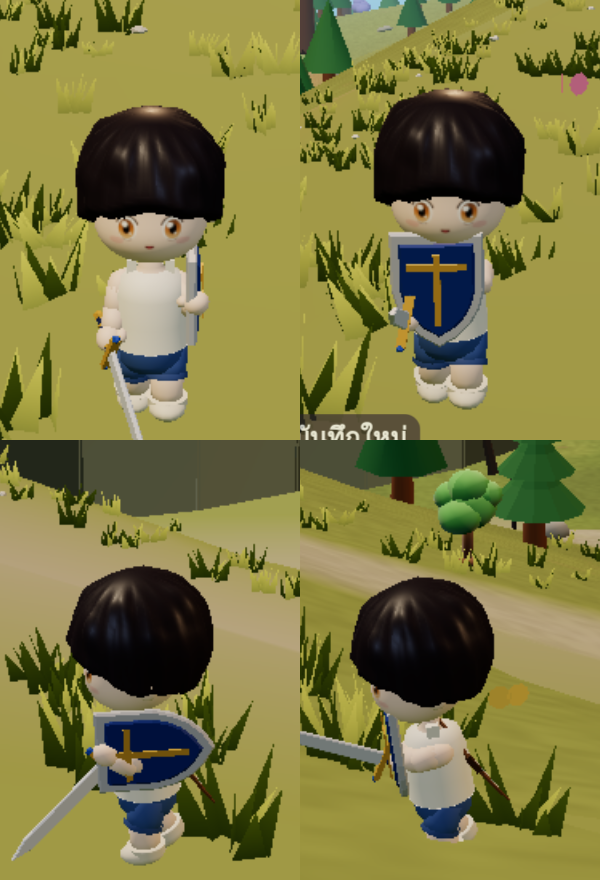
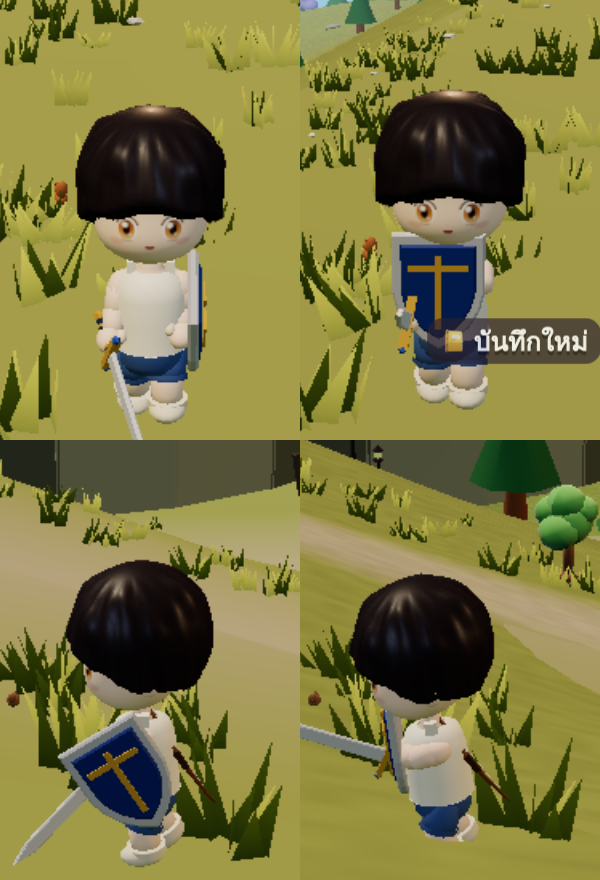
release(newgame): v4.23 holding a shield: elbow bent, shield on the forearm
Claude-Session: https://claude.ai/code/session_01GPWeNez232vT9ersFNk7wt

diff --git a/newgame/src/main.js b/newgame/src/main.js
@@ -378,12 +378,12 @@ const _gQ = new THREE.Quaternion(), _gQ2 = new THREE.Quaternion(), _gM = new THR
 /* v4.14 a shield on the arm · v4.19 not guarding: the arm hangs as the animation has it (the shield at the side) · guarding: the forearm comes up across the front · eased in / out */
 const _shQ1 = new THREE.Quaternion(), _shQ2 = new THREE.Quaternion(), _shQ3 = new THREE.Quaternion(), _shQ4 = new THREE.Quaternion(), _shE = new THREE.Euler();
 function shieldPose(dt) { const R = PL.rig, a = R && R.armL, e = R && R.elL, arm = PL.body.getObjectByName('armL2'), sg = arm && arm.children.find(o => o.userData.shieldArm), free = !PL.swim && !PL.climb && !RIDE && !GLIDE && !LIFT && !EAT && !AIM, on = !!sg && guard && free;
-  PL.shw = (PL.shw || 0) + ((on ? 1 : 0) - (PL.shw || 0)) * Math.min(1, dt * 8); if (!a || !e) return; const k = PL.shw;
-  if (k < .01) { if (PL.shY) { e.rotation.y = 0; e.rotation.z = 0; a.rotation.y = 0; PL.shY = 0 } }   /* the elbow twist is ours alone (the animations never reset it): undo it when the guard pose ends */
-  else { PL.shY = 1; const G = D.SHIELD_ARM.guard; for (const [J, V] of [[a, G.a], [e, G.e]]) { J.rotation.x += (V[0] - J.rotation.x) * k; J.rotation.y += (V[1] - J.rotation.y) * k; J.rotation.z += (V[2] - J.rotation.z) * k } }   /* v4.20 guard: the upper arm straight forward · the forearm folded across in front */
+  PL.shw = (PL.shw || 0) + ((on ? 1 : 0) - (PL.shw || 0)) * Math.min(1, dt * 8); PL.shh = (PL.shh || 0) + ((sg && free ? 1 : 0) - (PL.shh || 0)) * Math.min(1, dt * 8); if (!a || !e) return; const k = PL.shw, h = PL.shh;
+  if (h < .01) { if (PL.shY) { e.rotation.y = 0; e.rotation.z = 0; a.rotation.y = 0; PL.shY = 0 } }   /* the elbow twist is ours alone (the animations never reset it): undo it when the shield pose ends */
+  else { PL.shY = 1; const I = D.SHIELD_ARM.idleArm, G = D.SHIELD_ARM.guard; for (const [J, A, B] of [[a, I.a, G.a], [e, I.e, G.e]]) { for (let n = 0; n < 3; n++) { const ax = 'xyz'[n], t = A[n] + (B[n] - A[n]) * k; J.rotation[ax] += (t - J.rotation[ax]) * h } } }   /* v4.23 holding a shield: the elbow bent, the forearm forward + down (the designer's sketch) · guarding: the arm straight forward, the forearm across */
   if (!sg) return; if (!free) { if (sg.userData.q0) sg.quaternion.copy(sg.userData.q0); sg.position.set(...D.SHIELD_ARM.pos); return }
-  /* v4.20 the shield's turn is held against the body (not the swinging arm): at rest flat at the side (lying along the arm) · guarding: facing the front, upright */
-  arm.updateMatrixWorld(true); arm.getWorldQuaternion(_shQ1); PL.body.getWorldQuaternion(_shQ2); _shQ3.setFromEuler(_shE.set(...D.SHIELD_ARM.idle)); _shQ4.setFromEuler(_shE.set(...D.SHIELD_ARM.gFace)); _shQ3.slerp(_shQ4, k); _shQ2.multiply(_shQ3); _shQ1.invert().multiply(_shQ2); sg.quaternion.copy(_shQ1); const ip = D.SHIELD_ARM.idlePos, gp = D.SHIELD_ARM.pos; sg.position.set(ip[0] + (gp[0] - ip[0]) * k, ip[1] + (gp[1] - ip[1]) * k, ip[2] + (gp[2] - ip[2]) * k) }   /* v4.22 at rest the shield rides higher (its middle by the elbow) · guarding: down on the forearm */
+  /* the shield's turn is held against the body (not the swinging arm): at rest on the forearm, facing out, its top leaning forward · guarding: facing the front, upright */
+  arm.updateMatrixWorld(true); arm.getWorldQuaternion(_shQ1); PL.body.getWorldQuaternion(_shQ2); _shQ3.setFromEuler(_shE.set(...D.SHIELD_ARM.idle)); _shQ4.setFromEuler(_shE.set(...D.SHIELD_ARM.gFace)); _shQ3.slerp(_shQ4, k); _shQ2.multiply(_shQ3); _shQ1.invert().multiply(_shQ2); sg.quaternion.copy(_shQ1); const ip = D.SHIELD_ARM.idlePos, gp = D.SHIELD_ARM.pos; sg.position.set(ip[0] + (gp[0] - ip[0]) * k, ip[1] + (gp[1] - ip[1]) * k, ip[2] + (gp[2] - ip[2]) * k) }
 function gripTick() {
   const w = weaponOf(), R = PL.rig, K = w && D.ITEMS[w.t].kind, dt = Math.min(.05, (performance.now() - (PL.gt || 0)) / 1000); PL.gt = performance.now();
   const hand = PL.body.getObjectByName('handR'), g = hand && tool === 'sword' && !AIM && !WIND && hand.children.find(o => o.name === 'gear' && o.userData.q0); if (!g || !w) { PL.ik = null; return }

diff --git a/newgame/src/data.js b/newgame/src/data.js
@@ -1,6 +1,6 @@
 /* New Game — all tunable numbers in one place (docs/SPEC.md). "เสนอ" values: change after play-testing. */
 
-export const APP_VER = '4.22';
+export const APP_VER = '4.23';
 export const LOCK_ON = 6, LOCK_OFF = 8;   // v1.4.2 lock-on: face the nearest angry monster within 6 m · let go beyond 8 m
 export const REACH_SWORD = 2.2, REACH_TOOL = 1.9;   // how close you must be to slash / chop — farther away the character walks over first
 export const CAM_FOLLOW = .45, CAM_DRAG = .0055;   // camera behind the character: max auto-turn (rad/s, ~25°/s) · drag sensitivity (rad per px)                        // bump every release, then run tools/make-version.py (the in-game update bar compares it with version.json)
@@ -608,7 +608,7 @@ export const PLOT_MAX = 400, FARM_GIFT = { carrot: 4, cabbage: 2 }, WILD_SEED = 
 /* ================= v1.2 open world: monster camps (treasure chest when cleared) · wild animals · blueprints ================= */
 export const HORSE = { sp: 6.8, gallop: 11.5, near: 2.4, seat: .95 };   // v3.2 riding speeds · how close to mount · rider height
 export const LAVAD = { sp: 1.8, reach: 3.6, leash: 40, slam: { r: 3, d: 3, wind: 1.2 }, balls: { n: 3, r: 1.8, wind: 1.5 }, erupt: { n: 6, r: 1.6, R: 8, wind: 1.3 }, cd: [2800, 2000] };   // v4.15 🌋 walk · reach · leash · fist slam (radius · in front · warning) · fireballs where you stand (count · radius · warning) · phase-2 eruptions (count · radius · spread · warning) · ms between · every hit burns 🔥
-export const SHIELD_ARM = { pos: [0, -.1, .03], rot: [0, Math.PI / 2, 0], s: 1.35, idle: [0, Math.PI / 2, Math.PI / 2], idlePos: [0, .08, .085], gFace: [0, 0, 0], guard: { a: [-1.45, 0, 0], e: [0, 0, -1.5] } };   // v4.20 🛡 on the forearm (armL2) · not guarding: arm down, the shield flat at the side, lying horizontally (idle · against the body) · guarding: the arm straight forward, the forearm folded across in front (guard a = upper arm xyz · e = elbow xyz · gFace = the shield's turn against the body: facing front, upright)
+export const SHIELD_ARM = { pos: [0, -.1, .03], rot: [0, Math.PI / 2, 0], s: 1.35, idle: [0, Math.PI / 2, .5], idlePos: [0, -.02, .04], idleArm: { a: [0, 0, 0], e: [-1, 0, 0] }, gFace: [0, 0, 0], guard: { a: [-1.45, 0, 0], e: [0, 0, -1.5] } };   // v4.20 🛡 on the forearm (armL2) · not guarding: arm down, the shield flat at the side, lying horizontally (idle · against the body) · guarding: the arm straight forward, the forearm folded across in front (guard a = upper arm xyz · e = elbow xyz · gFace = the shield's turn against the body: facing front, upright)
 export const BGIANT = { sp: 2, reach: 3.6, leash: 40, sweep: { r: 3.2, d: 2.6, wind: 1.2 }, thrust: { n: 4, r: 1.4, step: 2.4, wind: 1.3 }, summon: { n: 2, max: 3 }, weak: 1.5, cd: [2700, 1900] };   // v4.13 💀 walk · reach · leash · sword sweep (radius · in front · warning) · thrust line (circles · radius · spacing · warning) · phase-2 skeletons (each time · most at once) · hit while it winds up ×1.5 · ms between
 export const DTREE = { reach: 18, leash: 30, slap: { r: 3, side: 2.6, wind: 1.1 }, roots: { n: 3, r: 1.6, gap: .45, wind: 1.0 }, spores: { r: 5.5, wind: 1.5 }, cd: [2600, 1900] };   // v4.12 🌳 attacks reach · you ran off · branch slap (radius · beside it) · roots under your feet (count · radius · s between · warning) · phase-2 poison spores · ms between
 export const GIANT = { sp: 2.2, reach: 3.4, leash: 40, slam: { r: 2.8, d: 3.2, wind: 1.2 }, breath: { n: 3, r: 1.7, step: 2.2, wind: 1.3 }, ring: { r: 6.5, wind: 1.5 }, cd: [2700, 1900] };   // v4.11 ❄ walk speed · reach · leash from home · slam (radius · in front · warning s) · breath (circles in a line) · phase-2 spike ring · ms between attacks

diff --git a/newgame/docs/WORKLOG.md b/newgame/docs/WORKLOG.md
@@ -36,6 +36,12 @@
 - ✅ กระท่อมหลังแรก = `cabin` วางเอง (`bCost` ราคา D.BUILD.house · 30 วิ) · `S.home` + `setHome` (HOUSE ตามกระท่อม) · `homeMigrate` เซฟเก่าได้กระท่อม · 🚚 ย้าย (`enterBuild(k, id)` ฟรี) · ขุด/สร้างได้เฉพาะ band 2 · เทสต์ `bald.js`
 - ✅ บท 1–2 ไปเมืองท่า (ทำแล้ว · play.js ผ่านครบ) · เดิม: บท 1–2 ไปเมืองท่า (สไลม์ในเมือง · ดาบ · ป่าก็อบลิน+กรง · ซุ้มฟาง Sberh · สมุนไพร) · ตอนนี้ townSpawn/forestSpawn ยังเกิดบนเกาะที่ TX/FOREST เดิม · แก้เทสต์ play.js/vaneya.js/build.js/walk.js/map.js ตามพิกัดใหม่
 
+### v4.23 — 🛡 ยืนถือโล่: งอศอก ปลายแขนไปหน้า-ลง โล่เอียงบนปลายแขน (22 พ.ย. 2026)
+- ผู้ออกแบบ (ภาพวาด แขนงอ + โล่ = รวมกัน · มุมข้าง): ต้นแขนตรงลง · ศอกงอ ปลายแขนชี้ไปข้างหน้า-ลง · โล่อยู่บนปลายแขน หันออกข้าง ขอบบนเอียง (มุมหน้าต่ำ มุมหลังสูง) ปลายแหลมลงไปทางหลัง
+- แก้ `shieldPose`: ถือโล่ (ไม่ได้ว่าย/ขี่/ร่อน/เล็ง/กิน) = ใช้ท่าแขน `idleArm` (ศอก x −1) ค่อยๆ เข้า (`PL.shh`) · กด B = ผสมไปท่า `guard` · โล่ `idle` [0, π/2, .5] ยึดกับลำตัว · `idlePos` [0, −.02, .04] บนปลายแขน
+- ทดสอบ: weapons · fight · guardfree · bow · anim
+- ขึ้นเว็บ: ✅
+
 ### v4.22 — 🛡 โล่ตอนยืนอยู่บนแขน (กลางโล่ราวข้อศอก) (22 พ.ย. 2026)
 - ผู้ออกแบบ (ภาพวาด แขน + โล่ = รวมกัน): ท่ายืนปกติ โล่ทับแขน แขนผ่านช่วงหลังของโล่ มือโผล่ด้านล่าง
 - แก้: `D.SHIELD_ARM.idlePos` [0, .08, .085] (บน armL2: ขึ้นไปทางข้อศอก + ไปข้างหน้า) · ป้องกันใช้ `pos` เดิม (บนแขนท่อนล่าง) · ค่อยๆ เลื่อนตาม `PL.shw` · ภาพ `docs/art/shield-idle.png`
